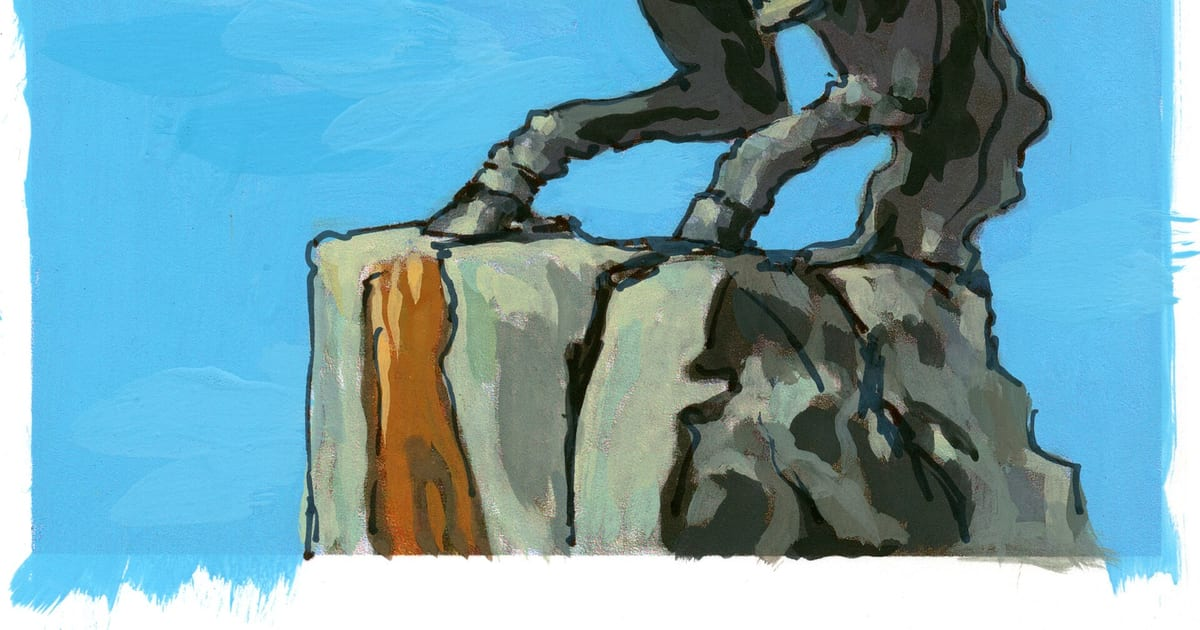
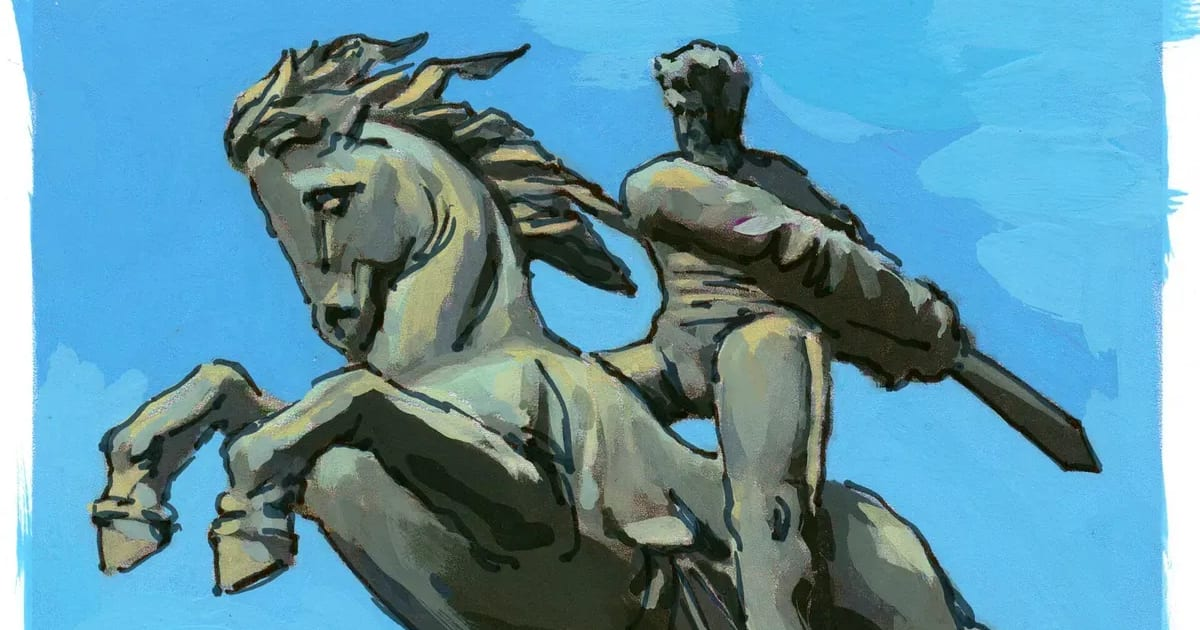
Culture : cadrer les images hautes par le haut (têtes coupées)
L'image de David de Sassoun était rognée au centre dans le carrousel
(tête du cavalier coupée) et, sur la carte de partage 1200×630, sharp
'attention' n'avait gardé que le socle — l'image partie sur Instagram.
Même défaut pour la statue d'Aznavour, le portrait de Khatchatourian
(front coupé sur la carte) et la statue du duduk (carrousel).

- scripts/lib/culture-focus.mjs : un point de cadrage vertical par image,
  `image.focusY` dans meta.json, sinon le haut (15 %) pour toute image plus
  haute que large ; même sens qu'object-position, partagé par :
  carrousel de l'accueil, vignettes de l'index, carte de partage ;
- David de Sassoun : focusY 0.05 ;
- cartes image.jpg régénérées pour les 5 images hautes (1200×630, sRGB,
  sans profil ICC).

diff --git a/src/components/CultureTeaser.jsx b/src/components/CultureTeaser.jsx
@@ -122,6 +122,9 @@ export function CultureTeaser() {
                         decoding="async"
                         src={cultureImagePath(x.slug, 'webp')}
                         alt=""
+                        // Rognée en 4:3 : un portrait garde le haut
+                        // (scripts/lib/culture-focus.mjs, calculé au build).
+                        style={x.focus == null ? undefined : { objectPosition: `50% ${Math.round(x.focus * 100)}%` }}
                         onError={() => setBroken((b) => ({ ...b, [x.slug]: true }))}
                       />
                     ) : (
